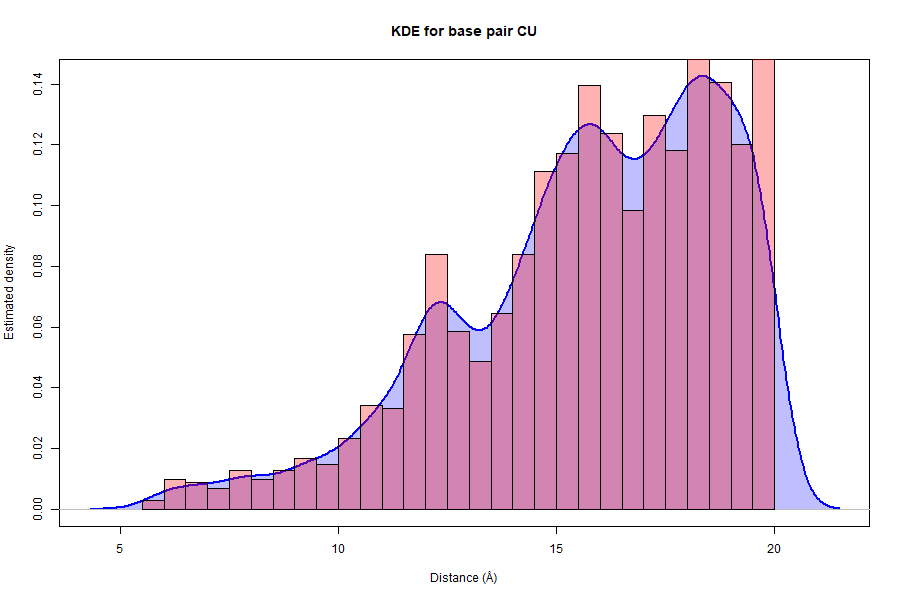
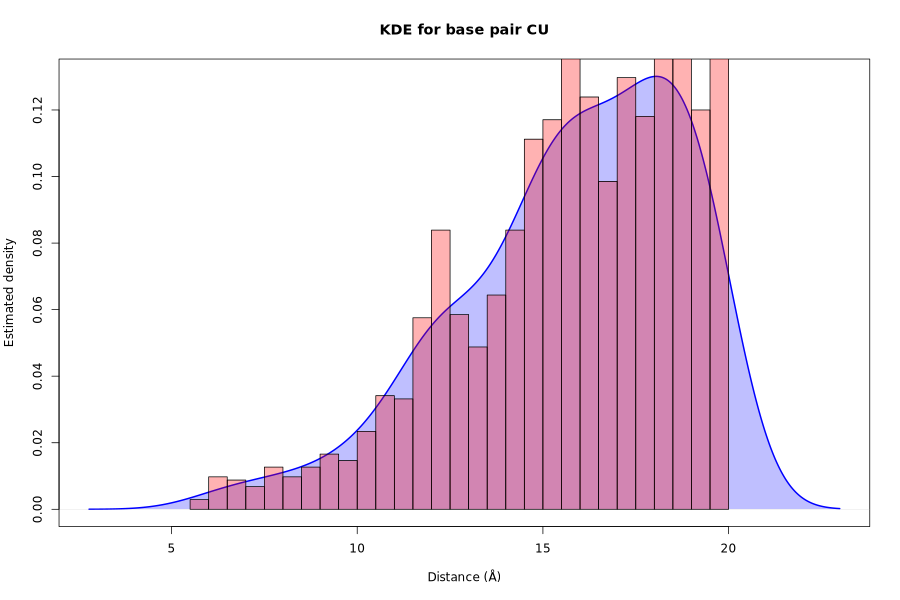
Update KDE.R : run from main.py

diff --git a/src/scoring.py b/src/scoring.py
@@ -1,6 +1,5 @@
 # src/scoring.py
 
-import math
 import os
 import argparse
 import datetime
@@ -13,7 +12,35 @@ import utils.model as model
 import utils.interpolation as interpolation
 
 def score_from_distances(distances, reference_distributions):
+    """
+    Compute a total interaction score from a set of pairwise residue distances
+    using precomputed reference distance-score distributions.
+
+    For each (residue_i, residue_j, distance) tuple, the corresponding reference
+    distribution is retrieved, and a score is obtained by linear interpolation
+    between the two nearest distance bin centers. Distances falling outside the
+    reference range are clamped to the nearest edge score.
+
+    Parameters
+    ----------
+    distances : iterable of tuple
+        Iterable of (residue_i, residue_j, d), where residue_i and residue_j
+        identify the residue types (e.g., nucleotides) and d is the distance
+        between them.
+
+    reference_distributions : dict
+        Dictionary mapping normalized residue pairs to NumPy arrays of shape
+        (N, 2), where the first column contains distance bin centers and the
+        second column contains the corresponding scores.
+
+    Returns
+    -------
+    float
+        The total score obtained by summing the interpolated scores for all
+        residue pairs.
+    """
     s = 0.0
+
     norm_pair = pair.normalize_pair
     lin_interp = interpolation.linear_interpolation
 
@@ -24,8 +51,10 @@ def score_from_distances(distances, reference_distributions):
         centers = rd[:, 0]
         scores  = rd[:, 1]
 
+        # Find where d fits in bin centers
         idx = np.searchsorted(centers, d)
 
+        # Clamp to edges
         if idx == 0:
             s += scores[0]
             continue

diff --git a/main.py b/main.py
@@ -6,7 +6,7 @@ import src.training as training
 import src.plotting as plotting
 import src.scoring as scoring
 import utils.model as model
-
+import subprocess
 
 def main():
     parser = argparse.ArgumentParser(description="RNA scoring pipeline")
@@ -100,7 +100,15 @@ def main():
 
     if run_kde:
         model.save_pairwise_distances(args.testset)
-        plotting.plot_kde(bandwidth=model.bin_width)
+        
+        print(f"Starting KDE plots...")
+        print(f"Bins Width:  ", model.bin_width)
+        print(f"================\n")
+        cmd = ["Rscript", "src/KDE.r", "data/distances.csv", str(model.bin_width)]
+        result = subprocess.run(cmd, capture_output=True, text=True, check=True)
+        print(result.stdout)
+        print(f"KDE - DONE")
+        print(f"================================\n")
 
     if run_scoring:
         scoring.run_score(args.profiles, args.testset, args.scores)

diff --git a/README.md b/README.md
@@ -179,23 +179,21 @@ Contains core utilities: PDB/CIF parsing, distance computation, interpolation, a
 
 Source: [towardsdatascience.com](https://towardsdatascience.com/kernel-density-estimation-explained-step-by-step-7cc5b5bc4517/)
 
-Here, we applied a KDE offo of the distances of every files contained in the `data/structures/test` folder.
+Here, we applied a KDE of the distances of every files contained in the `data/structures/test` folder.
 
 
 ### Usage
-As of now:
-* Implicitly create a KDE plot with python file when creating `distances.csv`.
-* **You might get the message down below twice**: Rscript does not open a graphics window like RStudio. R creates a null graphics device if no interactive device is available
-```
-null device 
-          1
-```
+Implicitly create a KDE plot with python file when creating `distances.csv`.
 
-
+* **From Python**
 ```bash
 # Create the distances file
-python main.py --no-train --no-plot --no-score --make-kde
-Rscript src/KDE.r data/distances.csv TRUE
+python main.py --no-train --no-plot --no-score --make-kde --bin-width 1.0
+```
+
+* **From R** (`distances.csv` must be written out before hand)
+```bash
+Rscript src/KDE.r data/distances.csv 0.5
 ```
 
 ## Non-log Scoring Formula
